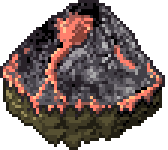
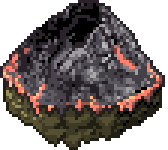
화산 activated / disactivated시 타일 변경

Changed region(s): [[0.2679, 0.08, 0.625, 0.7733]]

diff --git a/Cocos_practice/Classes/TileMap.cpp b/Cocos_practice/Classes/TileMap.cpp
@@ -21,7 +21,7 @@ std::array<std::array<TileKind, MAP_MAX_WIDTH>, MAP_MAX_HEIGHT> TileMap::_NewMap
 	{ TILE_NULL, TILE_NULL, TILE_RICH_SIDE, TILE_LAKE, TILE_VILLAGE, TILE_PLAIN, TILE_PLAIN, TILE_PLAIN, TILE_NULL, TILE_NULL },
 	{ TILE_NULL, TILE_PLAIN, TILE_PLAIN, TILE_PLAIN, TILE_PLAIN, TILE_FOREST, TILE_HEADQUARTER, TILE_PLAIN, TILE_NULL, TILE_NULL },
 	{ TILE_NULL, TILE_PLAIN, TILE_PLAIN, TILE_PLAIN, TILE_RICH, TILE_RICH, TILE_FOREST, TILE_PLAIN, TILE_NULL, TILE_NULL },
-	{ TILE_NULL, TILE_PLAIN, TILE_PLAIN, TILE_RICH, TILE_VOCANO, TILE_RICH, TILE_PLAIN, TILE_PLAIN, TILE_NULL, TILE_NULL },
+	{ TILE_NULL, TILE_PLAIN, TILE_PLAIN, TILE_RICH, TILE_VOLCANO, TILE_RICH, TILE_PLAIN, TILE_PLAIN, TILE_NULL, TILE_NULL },
 	{ TILE_NULL, TILE_NULL, TILE_PLAIN, TILE_FOREST, TILE_RICH, TILE_RICH, TILE_PLAIN, TILE_PLAIN, TILE_PLAIN, TILE_NULL },
 	{ TILE_NULL, TILE_PLAIN, TILE_HEADQUARTER, TILE_FOREST, TILE_PLAIN, TILE_PLAIN, TILE_PLAIN, TILE_PLAIN, TILE_NULL, TILE_NULL },
 	{ TILE_NULL, TILE_NULL, TILE_PLAIN, TILE_PLAIN, TILE_PLAIN, TILE_VILLAGE, TILE_LAKE, TILE_RICH_SIDE, TILE_NULL, TILE_NULL },
@@ -42,6 +42,9 @@ bool TileMap::create()
 
 			if (_TileSet[i][j]->getTypeOfTile() == TILE_RICH)
 				_RichTiles.push_back(_TileSet[i][j]);
+
+			if (_TileSet[i][j]->getTypeOfTile() == TILE_VOLCANO)
+				_VolcanoTiles.push_back(_TileSet[i][j]);
 
 			if (j == 0)
 			{
@@ -118,6 +121,10 @@ void TileMap::KillCharacter(Character* target)
 std::vector<Self_Tile*> TileMap::getRichTiles()
 {
 	return _RichTiles;
+}
+std::vector<Self_Tile*> TileMap::getVolcanoTiles()
+{
+	return _VolcanoTiles;
 }
 
 TileMap::TileMap()

diff --git a/Cocos_practice/Classes/Self_Tile.cpp b/Cocos_practice/Classes/Self_Tile.cpp
@@ -14,6 +14,7 @@ std::string Self_Tile::_DictionaryForFilenames[MAX_TILEKIND] =
 	"tile_rich.png",
 	"tile_lake.png",
 	"tile_volcano.png",
+	"tile_volcano_activated.png",
 	"tile_lava.png",
 	"tile_rich.png",
 	"tile_move.png"
@@ -90,7 +91,7 @@ DirectionKind Self_Tile::getNearTileDirection(Self_Tile* tile)
 
 bool Self_Tile::isMovable()
 {
-	if (getTypeOfTile() == TILE_LAVA || getTypeOfTile() == TILE_VOCANO || getTypeOfTile() == TILE_NULL || getTypeOfTile() == TILE_LAKE)
+	if (getTypeOfTile() == TILE_LAVA || getTypeOfTile() == TILE_VOLCANO || getTypeOfTile() == TILE_NULL || getTypeOfTile() == TILE_LAKE)
 		return false;
 	return true;
 }

diff --git a/Cocos_practice/Classes/definition.h b/Cocos_practice/Classes/definition.h
@@ -2,7 +2,7 @@
 USING_NS_CC;
 
 #define GM GameSceneManager::getInstance()
-enum { MAX_TILEKIND  = 12};
+enum { MAX_TILEKIND  = 13};
 enum { NUM_OF_PLAYER = 2 };
 enum { MAP_MAX_HEIGHT = 11, MAP_MAX_WIDTH = 10 };
 
@@ -39,7 +39,8 @@ enum TileKind {
 	TILE_BARRACK,
 	TILE_RICH,
 	TILE_LAKE,
-	TILE_VOCANO,
+	TILE_VOLCANO,
+	TILE_VOLCANO_ACTIVATED,
 	TILE_LAVA,
 	TILE_RICH_SIDE,
 	TILE_MOVE

diff --git a/Cocos_practice/Classes/TileMap.h b/Cocos_practice/Classes/TileMap.h
@@ -16,6 +16,7 @@ public:
 	void	KillCharacter(Character* target);
 
 	std::vector<Self_Tile*> getRichTiles();
+	std::vector<Self_Tile*> getVolcanoTiles();
 
 private:
 	static std::array<std::array<TileKind, MAP_MAX_WIDTH>, MAP_MAX_HEIGHT> _NewMapData;
@@ -28,4 +29,5 @@ private:
 	static TileMap* _Inst;
 
 	std::vector<Self_Tile*> _RichTiles;
+	std::vector<Self_Tile*> _VolcanoTiles;
 };

diff --git a/Cocos_practice/Classes/Phase_Volcano.h b/Cocos_practice/Classes/Phase_Volcano.h
@@ -11,6 +11,9 @@ private:
 	std::vector<Self_Tile*> _VolcanoTileList;
 	std::vector<Self_Tile*>::iterator _VolcanoTileListIter;
 
+	void ChangeVolcanoDisactivted();
+	void ChangeVolcanoActivted();
+
 	void ChangeRichToLava(int repeat);
 	void ChangeAllLavaToPlane();
 	void ChangePlanesToRich();
